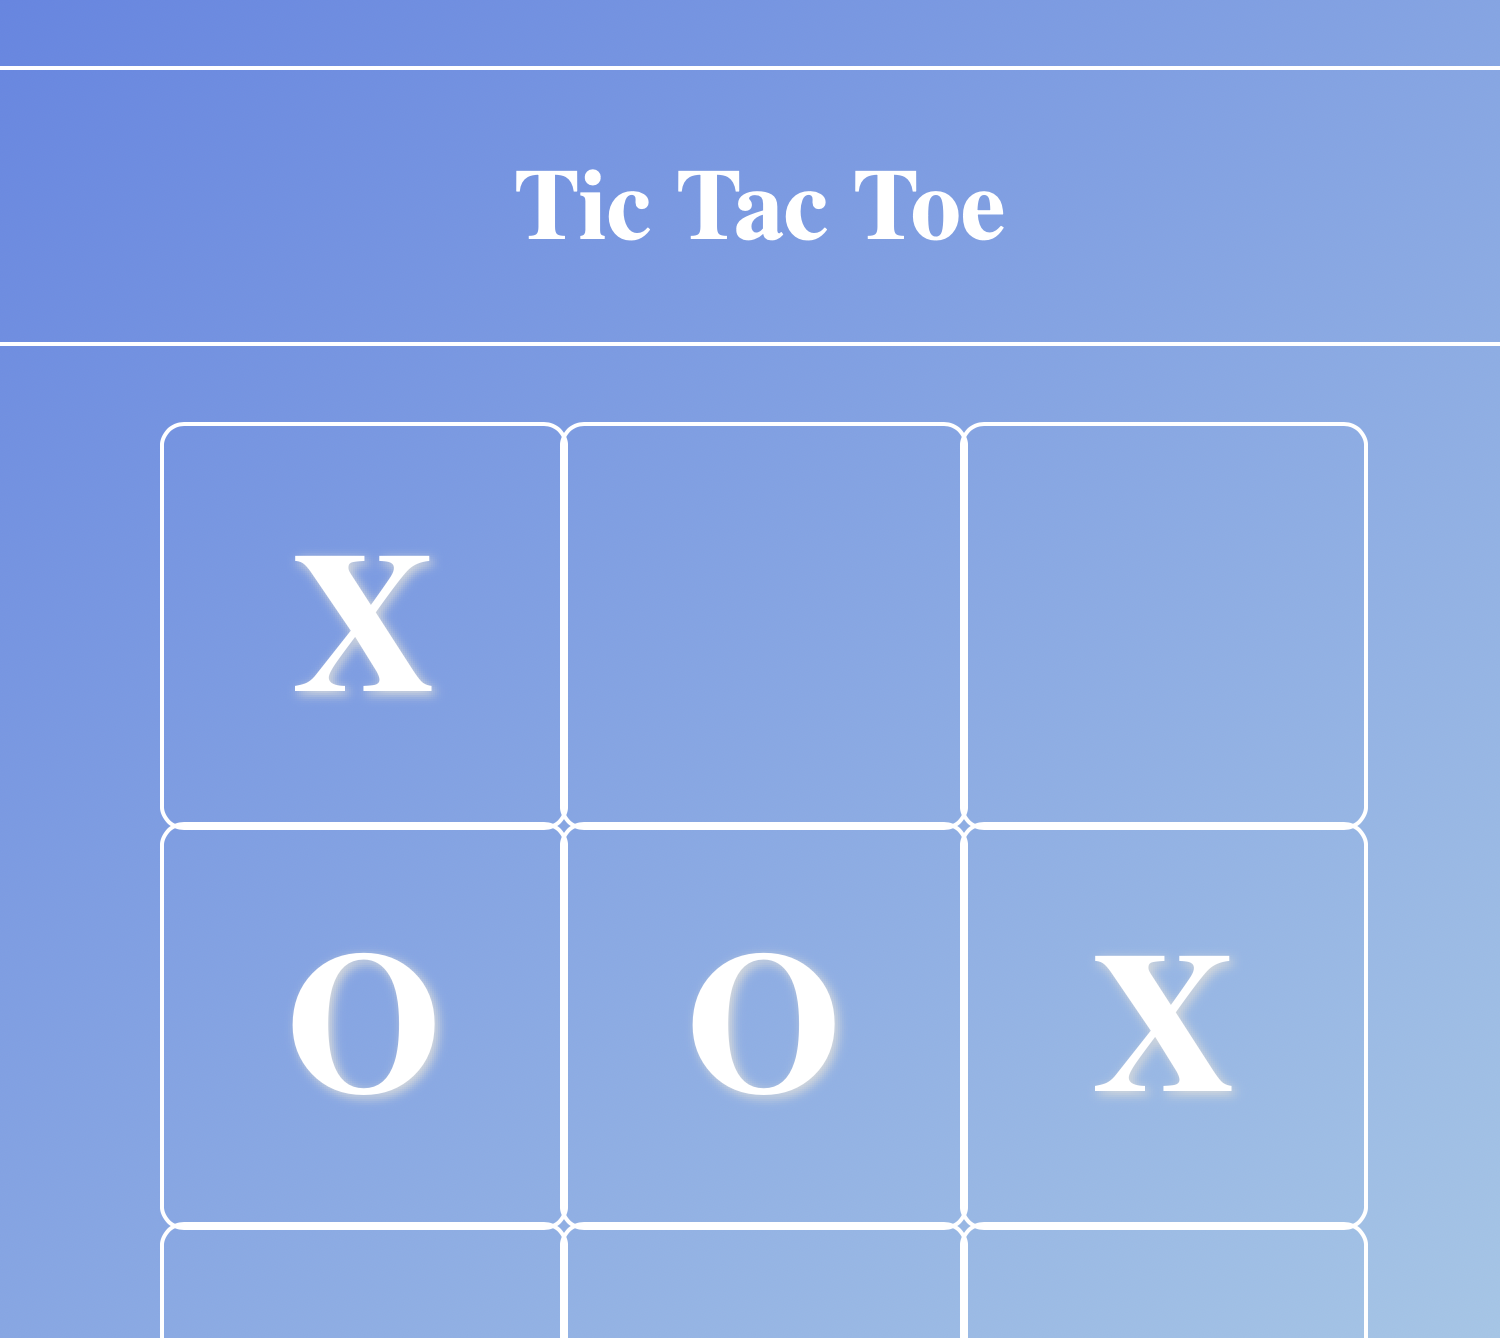
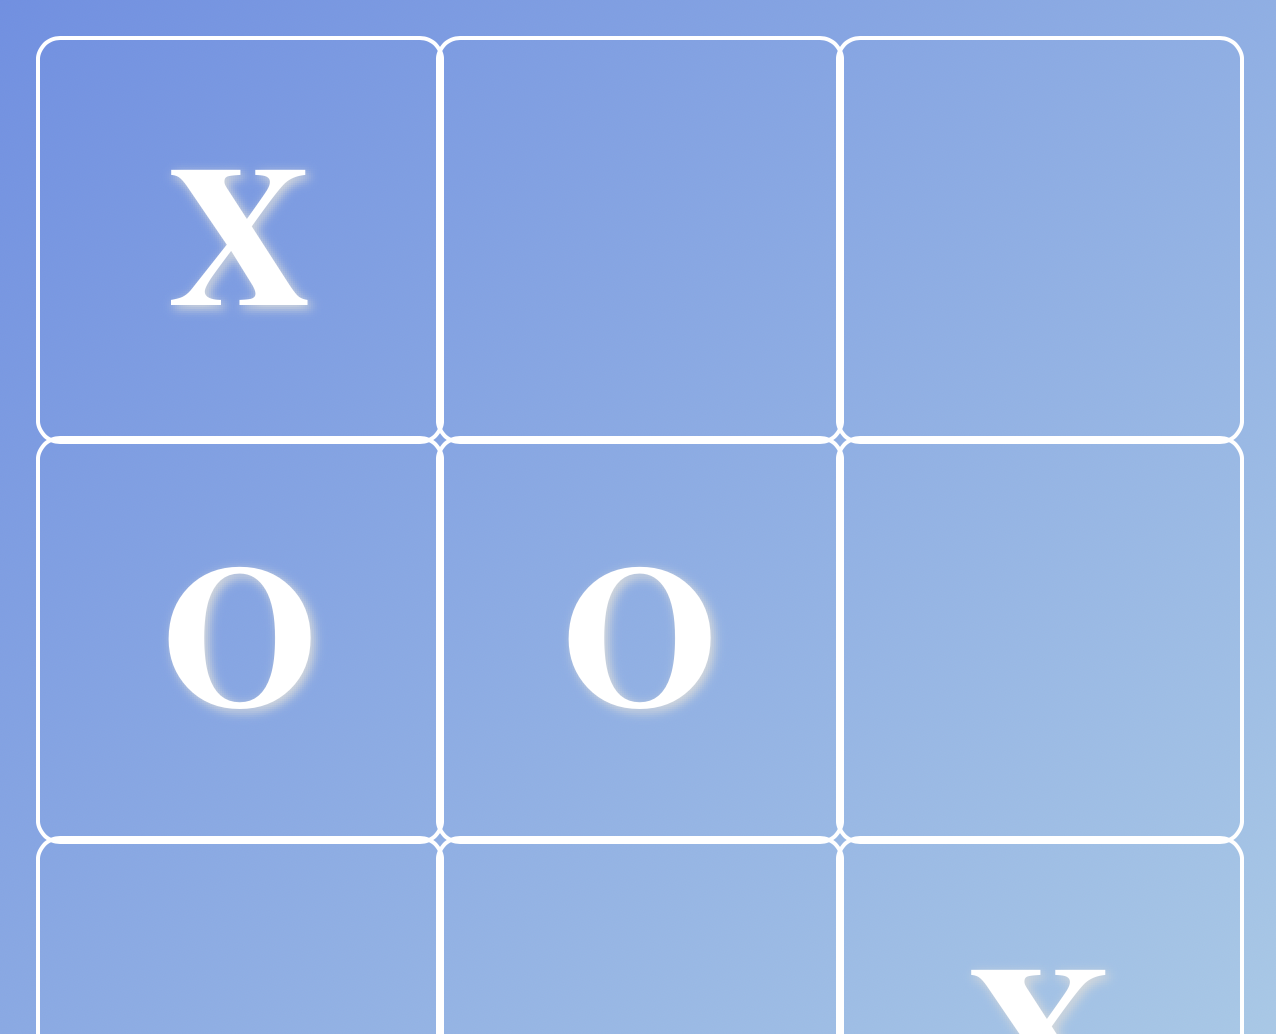
replaced images with beter versions; index.html and style.css: upped the style of website

Changed region(s): [[0.0, 0.0309, 1.0, 1.0]]

diff --git a/index.html b/index.html
@@ -10,7 +10,7 @@
     <body>
         <header>
             <div class="header-container">
-                <a class="name">Davis Mickens</a>
+                <h1 class="name">Davis Mickens</h1>
                 <nav class="header-nav">
                     <a href="#about-section" class="btn">About</a>
                     <a href="#portfolio-section" class="btn">Portfolio</a>
@@ -35,15 +35,17 @@
                 <div id="portfolio-section">
                     <h1>Portfolio</h1>
                     <div class="project-container">
-                        <div class="project-1">
-                            <!-- screenshot -->
+                        <div>
+                            <img src="images/tictactoe.png">
                             <p>Tic Tac Toe</p>
-                            <p>A standard game of tic tac toe</p>
+                            <p><em>Javascript / HTML / CSS</em></p>
+                            <p class="text">A standard game of tic tac toe</p>
                         </div>
-                        <div class="project-2">
-                            <!-- screenshot -->
+                        <div>
+                            <img src="images/pokesearch.png">
                             <p>PokeSearch</p>
-                            <p>Search for a Pokémon and display its information</p>
+                            <p><em>Javascript / HTML / CSS</em></p>
+                            <p class="text">Search for a Pokémon and display its information</p>
                         </div>
                     </div>
                 </div>

diff --git a/style.css b/style.css
@@ -5,22 +5,27 @@
 }
 
 :root {
-    --title-size: 5vw; /* add clamp() */
+    --title-size: 6vw; /* add clamp() */
     --header-nav-size: 3vw; /* add clamp() */
     --nav-size: 40px;
-    --para-size: 1.5vw;
+    --para-size: 2vw;
+    --text-size: 16px;
+    --header-size: 5vw;
 }
 
 body {
-    height: 150vh;
+    height: 200vh;
     background-color: white;
     display: grid;
-    grid-template: 150px 1fr 5fr 75px / 3fr 0.5fr;
+    grid-template: 150px 1fr 5fr 50px / 3fr 0.5fr;
 }
 
 #about-section,
 #portfolio-section {
     font-size: var(--para-size);
+    background-color: #28292e;
+    border-radius: 8px;
+    padding: 52px;
 }
 
 #about-section {
@@ -38,7 +43,7 @@ body {
 .header-nav,
 .footer-container {
     display: flex;
-    gap: 24px;
+    gap: 16px;
 }
 
 .nav-container {
@@ -75,7 +80,7 @@ main {
 .main-container {
     display: flex;
     flex-direction: column;
-    gap: 15vh;
+    gap: 10vh;
 }
 
 .nav-container {
@@ -86,12 +91,11 @@ main {
 }
 
 .project-container {
-    display: grid;
-    grid-template-areas: repeat(1fr, 2) / repeat(1fr, 2);
-}
-
-.project-container > * {
-    /* revisit card css-excercise under grid */
+    display: flex;
+    flex-direction: column;
+    text-align: center;
+    gap: 52px;
+    padding: 12px;
 }
 
 footer {
@@ -103,6 +107,20 @@ footer {
     grid-column: 1 / 3;
 }
 
+.text {
+    font-size: var(--para-size);
+}
+
+h1 {
+    font-size: var(--header-size);
+}
+
 a {
     text-decoration: none;
+}
+
+img {
+    height: auto;
+    width: 40vw; /* clamp() */
+    border-radius: 8px;
 }
